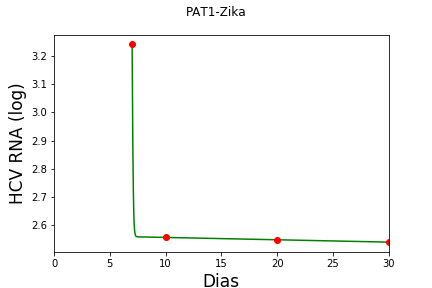
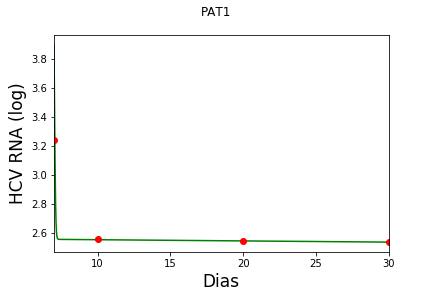
Zika adicionado no codigo

diff --git a/modeloEDO.py b/modeloEDO.py
@@ -56,13 +56,43 @@ def dinamicaIntracelular(x, y):
     beta    = 5*10**-8
     d       = 0.01
     
+    '''
+    #Pat1
+    delta   = 0.002
+    epsilon = 0.9975
+    p       = 5
+    c       = 30.3
+    '''
+    '''
+    #Pat2
+    delta   = 0.038
+    epsilon = 0.996
+    p       = 7
+    c       = 30.3
+    '''
+    '''
+    #Pat3
+    delta   = 0.1
+    epsilon = 0.994
+    p       = 10
+    c       = 20.3
+    '''
+    
+    #Pat4
+    delta   = 0.05
+    epsilon = 0.9975
+    p       = 9
+    c       = 19.0
+    
+    '''
     #Pat8
     delta   = 1.0
     epsilon = 0.996
     p       = 5
     c       = 22.3
-    
-    '''#Pat42
+    '''
+    '''
+    #Pat42
     delta   = 0.5
     epsilon = 0.996
     p       = 5
@@ -104,12 +134,26 @@ h = 0.01
 x = np.array([0.0, 2.0])
 
 xZika = np.array([7.0, 30.0])
+
 # condicoes iniciais
 T0  = 2.9168*10**6
 I0 = 8.7186*10**5
 
+
+#PAT1:
+#V0   = 8*10**3
+
+#PAT2:
+#V0   = 8*10**3
+
+#PAT3:
+#V0   = 4.5*10**3
+
+#PAT4:
+V0   = 3*10**4
+
 #PAT8:
-V0  = 6.9139*10**5
+#V0  = 6.9139*10**5
 
 #PAT42:
 # V0  = 6.9139*10**5
@@ -128,7 +172,7 @@ yinit = np.array([T0,I0,V0], dtype='f')
 
 # Chama o método de runge-kutta definido com a função e as condições iniciais
 
-[ts, ys] = RK4thOrder('dinamicaIntracelular', yinit, x, h)
+[ts, ys] = RK4thOrder('dinamicaIntracelular', yinit, xZika, h)
 
 # Separa cada variável em um vetor
 
@@ -143,7 +187,7 @@ plt.figure()
 
 plt.plot(ts, ys3, 'g')
 
-plt.xlim(0.0, x[1])
+plt.xlim(xZika[0], xZika[1])
 plt.xlabel("Dias", fontsize=17)
 plt.ylabel("HCV RNA (log)", fontsize=17)
 
@@ -190,10 +234,10 @@ PAT3 = [3.555587, 3.316164, 2.595167, 2.543369]
 #Pat4
 PAT4 = [4.175440, 2.992317, 2.744784, 2.543393]
 
-plt.suptitle('PAT8')
+plt.suptitle('PAT4')
 
-plt.plot(t, PAT8, 'ro')
-#plt.savefig('pat42.png',format= 'png')
+plt.plot(tZika, PAT4, 'ro')
+#plt.savefig('pat4.png',format= 'png')
 plt.show()
 
 
